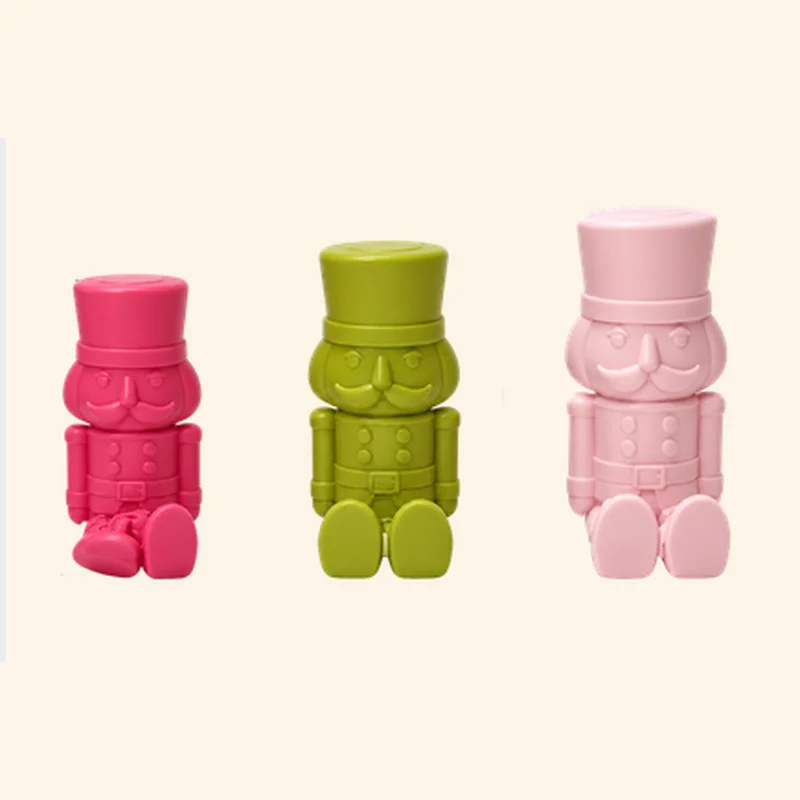
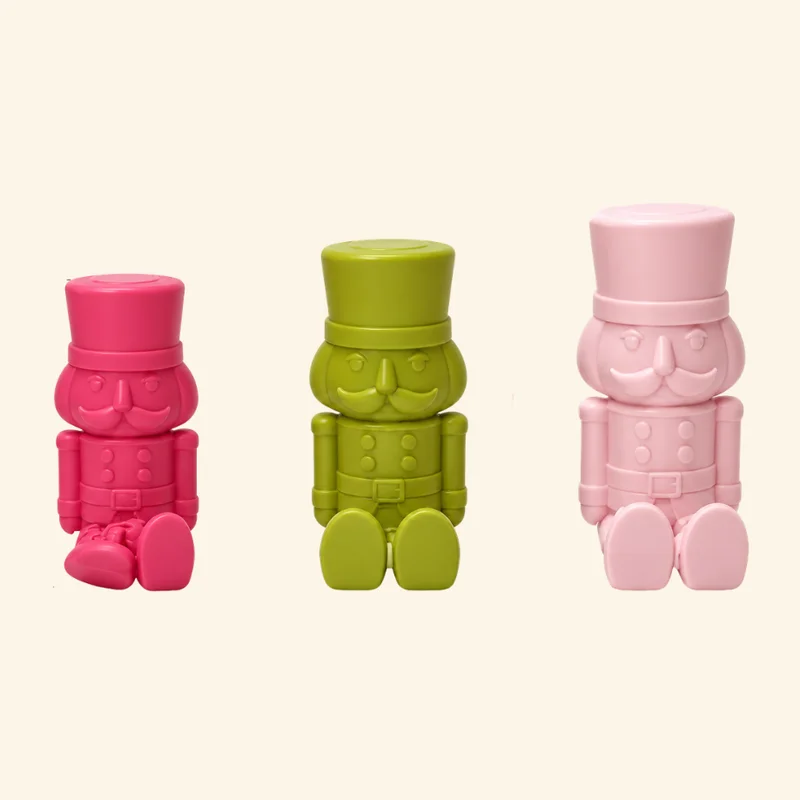
Trio P, M e G em alta resolução como primeira foto do articulado
Claude-Session: https://claude.ai/code/session_01GBWdbCBCbXwDrRUAAwMmLc

Changed region(s): [[0.6875, 0.25, 0.9375, 0.75], [0.375, 0.2812, 0.5938, 0.75], [0.0625, 0.3438, 0.25, 0.75]]

diff --git a/index.html b/index.html
@@ -266,9 +266,9 @@ const PRODUTOS = [
    imgs:["f2-bola.webp"], foto:true, fundo:"var(--bege)",
    tamanhos:[{id:"u",label:"Tamanho único",medida:"10 × 10 cm",preco:10}], peca:"bola", maxLetras:9, linhas:2},
   {id:"articulado", nome:"Quebra-nozes articulado · trio", desc:"Três quebra-nozes com pernas que balançam. Ficam sentados na estante ou, na versão pingente, pendurados na árvore.",
-   imgs:["f2-trio-m.webp","f2-trio-p.webp","f2-trio-pmg.webp"], foto:true, fundo:"var(--bege)",
-   tamanhos:[{id:"P",label:"P",medida:"5 cm sentado · 8 cm pendurado",preco:27},{id:"M",label:"M",medida:"7 cm sentado · 10 cm pendurado",preco:30},
-             {id:"G",label:"G",medida:"9 cm sentado · 12 cm pendurado",preco:33},{id:"PMG",label:"Um de cada (P, M e G)",medida:"um P, um M e um G",preco:30,foto:2}],
+   imgs:["f2-trio-pmg.webp","f2-trio-m.webp","f2-trio-p.webp"], foto:true, fundo:"var(--bege)",
+   tamanhos:[{id:"P",label:"P",medida:"5 cm sentado · 8 cm pendurado",preco:27,foto:2},{id:"M",label:"M",medida:"7 cm sentado · 10 cm pendurado",preco:30,foto:1},
+             {id:"G",label:"G",medida:"9 cm sentado · 12 cm pendurado",preco:33},{id:"PMG",label:"Um de cada (P, M e G)",medida:"um P, um M e um G",preco:30,foto:0}],
    opcao:{id:"uso",rot:"Uso",vals:["Decorativo","Pingente"]}, cores:3},
   {id:"pingente", nome:"Quebra-nozes pingente · trio", desc:"Três quebra-nozes com argola no chapéu, para pendurar na árvore.",
    imgs:["f2-pingentes.webp"], foto:true, fundo:"var(--bege)",
